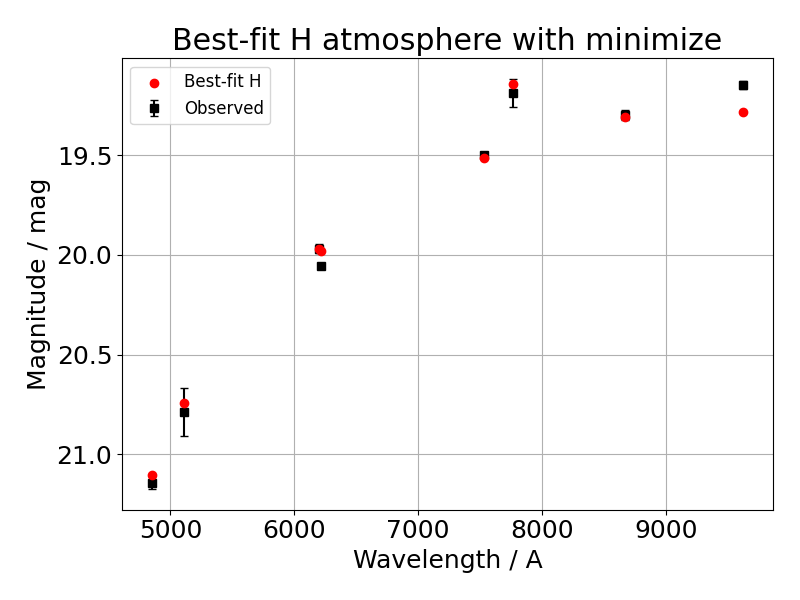
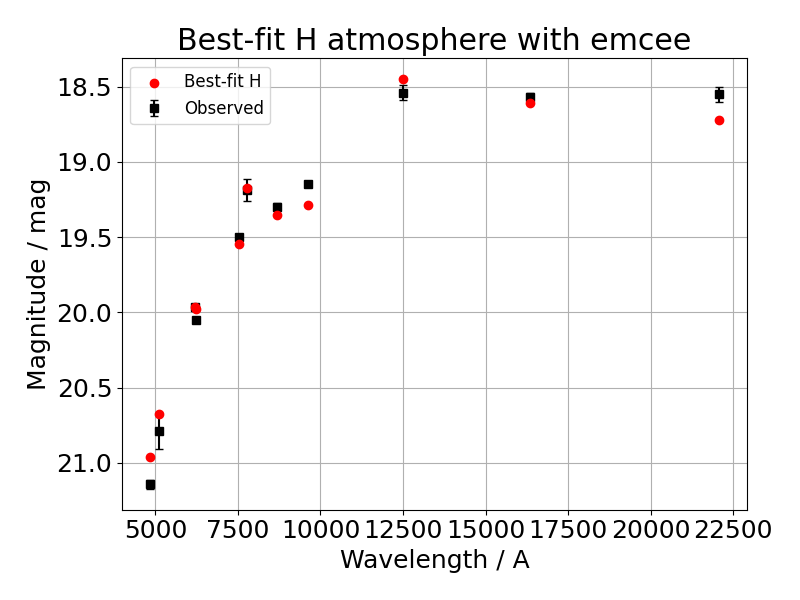
Fixed NAN extinction values when no reddening is fitted. Fixed some docstrings in fitting.py. Fixed a few typos in README.md and docs/source/fitting.rst

diff --git a/example/fitting_atmospheric_properties.py b/example/fitting_atmospheric_properties.py
@@ -5,54 +5,14 @@ from WDPhotTools.fitter import WDfitter
 
 try:
     HERE = os.path.dirname(os.path.realpath(__file__))
-except:
+except Exception as e:
+    print(e)
     HERE = os.path.dirname(os.path.realpath(__name__))
 
 
 ftr = WDfitter()
 
-# Fitting for logg and Mbol with 5 filters for both DA and DB
-ftr.fit(
-    filters=["G3", "G3_BP", "G3_RP", "FUV", "NUV"],
-    mags=[10.744, 10.775, 10.681, 13.940, 11.738],
-    mag_errors=[0.1, 0.1, 0.1, 0.1, 0.1],
-    independent=["Mbol", "logg"],
-    distance=10.0,
-    distance_err=0.1,
-    initial_guess=[10.0, 7.0],
-)
-ftr.results["H"]
-ftr.results["He"]
-ftr.show_best_fit(display=False)
-
-# Fitting for Mbol with 5 filters for both DA and DB
-ftr.fit(
-    filters=["G3", "G3_BP", "G3_RP", "FUV", "NUV"],
-    mags=[10.744, 10.775, 10.681, 13.940, 11.738],
-    mag_errors=[0.1, 0.1, 0.1, 0.1, 0.1],
-    logg=7.05,
-    independent=["Mbol"],
-    distance=10.0,
-    distance_err=0.1,
-    initial_guess=[10.0],
-)
-ftr.results["H"]
-ftr.results["He"]
-ftr.show_best_fit(display=False)
-
-# Fitting for logg, Mbol and distance with 5 filters for both DA and DB
-ftr.fit(
-    filters=["G3", "G3_BP", "G3_RP", "FUV", "NUV"],
-    mags=[10.744, 10.775, 10.681, 13.940, 11.738],
-    mag_errors=[0.1, 0.1, 0.1, 0.1, 0.1],
-    independent=["Mbol", "logg"],
-    initial_guess=[10.0, 7.0],
-)
-ftr.results["H"]
-ftr.results["He"]
-ftr.show_best_fit(display=False)
-
-# Fitting for logg and Mbol with 8 filters for both DA and DB
+# Fitting for logg and Mbol with 11 filters for both DA and DB
 ftr.fit(
     filters=[
         "g_ps1",
@@ -63,6 +23,9 @@ ftr.fit(
         "G3",
         "G3_BP",
         "G3_RP",
+        "J_mko",
+        "H_mko",
+        "K_mko",
     ],
     mags=[
         21.1437,
@@ -73,6 +36,9 @@ ftr.fit(
         20.0533,
         20.7883,
         19.1868,
+        19.45 - 0.91,
+        19.96 - 1.39,
+        20.40 - 1.85,
     ],
     mag_errors=[
         0.0321,
@@ -83,6 +49,9 @@ ftr.fit(
         0.006322,
         0.118615,
         0.070880,
+        0.05,
+        0.03,
+        0.05,
     ],
     independent=["Mbol", "logg"],
     distance=71.231,
@@ -99,8 +68,7 @@ ftr.show_best_fit(
     filename="PSOJ1801p6254",
 )
 
-
-# Fitting for logg and Mbol with 8 filters for both DA and DB
+# Fitting for logg and Mbol with 11 filters for both DA and DB
 ftr = WDfitter()
 ftr.fit(
     atmosphere="H",
@@ -113,6 +81,9 @@ ftr.fit(
         "G3",
         "G3_BP",
         "G3_RP",
+        "J_mko",
+        "H_mko",
+        "K_mko",
     ],
     mags=[
         21.1437,
@@ -123,6 +94,9 @@ ftr.fit(
         20.0533,
         20.7883,
         19.1868,
+        19.45 - 0.91,
+        19.96 - 1.39,
+        20.40 - 1.85,
     ],
     mag_errors=[
         0.0321,
@@ -133,6 +107,9 @@ ftr.fit(
         0.006322,
         0.118615,
         0.070880,
+        0.05,
+        0.03,
+        0.05,
     ],
     independent=["Mbol", "logg"],
     initial_guess=[14.0, 7.5],

diff --git a/WDPhotTools/fitter.py b/WDPhotTools/fitter.py
@@ -2016,35 +2016,41 @@ class WDfitter(AtmosphereModelReader):
                         )
                     )
 
-                if self.extinction_convolved:
+                if Rv > 0.0:
 
-                    Av = (
-                        np.array(
-                            [
-                                i(
-                                    [
-                                        self.best_fit_params[j]["logg"],
-                                        self.best_fit_params[j]["Teff"],
-                                        Rv,
-                                    ]
-                                )
-                                for i in self.rv
-                            ],
-                            dtype=np.float64,
-                        ).reshape(-1)
-                        * ebv
-                    )
+                    if self.extinction_convolved:
+
+                        Av = (
+                            np.array(
+                                [
+                                    i(
+                                        [
+                                            self.best_fit_params[j]["logg"],
+                                            self.best_fit_params[j]["Teff"],
+                                            Rv,
+                                        ]
+                                    )
+                                    for i in self.rv
+                                ],
+                                dtype=np.float64,
+                            ).reshape(-1)
+                            * ebv
+                        )
+
+                    else:
+
+                        Av = (
+                            np.array(
+                                [i(Rv) for i in self.rv], dtype=np.float64
+                            ).reshape(-1)
+                            * ebv
+                        )
+
+                    Av[np.isnan(Av)] = 0.0
 
                 else:
 
-                    Av = (
-                        np.array(
-                            [i(Rv) for i in self.rv], dtype=np.float64
-                        ).reshape(-1)
-                        * ebv
-                    )
-
-                Av[np.isnan(Av)] = 0.0
+                    Av = np.zeros(len(self.rv)).reshape(-1)
 
                 for i, f in enumerate(self.fitting_params["filters"]):
 

diff --git a/WDPhotTools/cooling_model_reader.py b/WDPhotTools/cooling_model_reader.py
@@ -18,8 +18,8 @@ class CoolingModelReader(object):
             "montreal_co_da_20": "Bedard et al. 2020 CO DA",
             "montreal_co_db_20": "Bedard et al. 2020 CO DB",
             "lpcode_he_da_07": "Panei et al. 2007 He DA",
-            "lpcode_co_da_07": "Panei et al. 2007 CO DA",
             "lpcode_he_da_09": "Althaus et al. 2009 He DA",
+            "lpcode_co_da_07": "Panei et al. 2007 CO DA",
             "lpcode_co_da_10_z001": "Renedo et al. 2010 CO DA Z=0.01",
             "lpcode_co_da_10_z0001": "Renedo et al. 2010 CO DA Z=0.001",
             "lpcode_co_da_15_z00003": "Althaus et al. 2015 DA Z=0.00003",
@@ -28,13 +28,19 @@ class CoolingModelReader(object):
             "lpcode_co_db_17_z00005": "Althaus et al. 2017 DB Y=0.4",
             "lpcode_co_db_17_z0001": "Althaus et al. 2017 DB Y=0.4",
             "lpcode_co_db_17": "Camisassa et al. 2017 DB",
-            "basti_co_da_10": "Salaris et al. 2010 CO DA",
-            "basti_co_db_10": "Salaris et al. 2010 CO DB",
-            "basti_co_da_10_nps": "Salaris et al. 2010 CO DA, no phase separation",
-            "basti_co_db_10_nps": "Salaris et al. 2010 CO DB, no phase separation",
             "lpcode_one_da_07": "Althaus et al. 2007 ONe DA",
             "lpcode_one_da_19": "Camisassa et al. 2019 ONe DA",
             "lpcode_one_db_19": "Camisassa et al. 2019 ONe DB",
+            "lpcode_da_22": "Althaus et al. 2013 He DA, "
+            + "Camisassa et al. 2016 CO DA,  Camisassa et al. 2019 ONe DA",
+            "lpcode_db_22": "Camisassa et al. 2017 CO DB, "
+            + "Camisassa et al. 2019 ONe DB",
+            "basti_co_da_10": "Salaris et al. 2010 CO DA",
+            "basti_co_db_10": "Salaris et al. 2010 CO DB",
+            "basti_co_da_10_nps": "Salaris et al. 2010 CO DA, "
+            + "no phase separation",
+            "basti_co_db_10_nps": "Salaris et al. 2010 CO DB, "
+            + "no phase separation",
             "mesa_one_da_18": "Lauffer et al. 2018 ONe DA",
             "mesa_one_db_18": "Lauffer et al. 2018 ONe DB",
         }

diff --git a/WDPhotTools/atmosphere_model_reader.py b/WDPhotTools/atmosphere_model_reader.py
@@ -9,6 +9,31 @@ class AtmosphereModelReader(object):
 
         super(AtmosphereModelReader, self).__init__()
 
+        self.THIS_FILE = os.path.dirname(os.path.abspath(__file__))
+
+        self.model_list = {
+            "montreal_co_da_20": "Bedard et al. 2020 CO DA",
+            "montreal_co_db_20": "Bedard et al. 2020 CO DB",
+            "lpcode_he_da_07": "Panei et al. 2007 He DA",
+            "lpcode_co_da_07": "Panei et al. 2007 CO DA",
+            "lpcode_he_da_09": "Althaus et al. 2009 He DA",
+            "lpcode_co_da_10_z001": "Renedo et al. 2010 CO DA Z=0.01",
+            "lpcode_co_da_10_z0001": "Renedo et al. 2010 CO DA Z=0.001",
+            "lpcode_co_da_15_z00003": "Althaus et al. 2015 DA Z=0.00003",
+            "lpcode_co_da_15_z0001": "Althaus et al. 2015 DA Z=0.0001",
+            "lpcode_co_da_15_z0005": "Althaus et al. 2015 DA Z=0.0005",
+            "lpcode_co_db_17_z00005": "Althaus et al. 2017 DB Y=0.4",
+            "lpcode_co_db_17_z0001": "Althaus et al. 2017 DB Y=0.4",
+            "lpcode_co_db_17": "Camisassa et al. 2017 DB",
+            "lpcode_one_da_07": "Althaus et al. 2007 ONe DA",
+            "lpcode_one_da_19": "Camisassa et al. 2019 ONe DA",
+            "lpcode_one_db_19": "Camisassa et al. 2019 ONe DB",
+            "lpcode_da_22": "Althaus et al. 2013 He DA, "
+            + "Camisassa et al. 2016 CO DA,  Camisassa et al. 2019 ONe DA",
+            "lpcode_db_22": "Camisassa et al. 2017 CO DB, "
+            + "Camisassa et al. 2019 ONe DB",
+        }
+
         # DA atmosphere
         filepath_da = os.path.join(
             os.path.dirname(os.path.abspath(__file__)),

diff --git a/WDPhotTools/reddening.py b/WDPhotTools/reddening.py
@@ -147,11 +147,12 @@ def reddening_vector_filter(filter):
 
     data = data.reshape(len(logg), len(Teff), len(Rv))
 
-    # fill_value is set to None to allow extrapolation. The scipy default is Nan.
+    # fill_value is set to None to allow extrapolation.
+    # The scipy default is Nan the otherwise.
     return RegularGridInterpolator(
         (logg, Teff, Rv),
         data,
-        method="linear",
+        method="cubic",
         bounds_error=False,
         fill_value=None,
     )

diff --git a/docs/source/tutorials/fitting.rst b/docs/source/tutorials/fitting.rst
@@ -105,7 +105,7 @@ Compared to case 1, this fits for the logg, so we needs to add `"logg"` to the `
             Rv=3.1,
             ebv=0.1,
             independent=["Mbol", "logg"],
-            initial_guess=[10.0],
+            initial_guess=[10.0, 8.0],
             logg=7.81)
 
 **Case 3**
@@ -185,7 +185,7 @@ This is a combination of case 2 and 4. We are also demonstrating how to modify t
             nburns=200,
             refine=True,
             refine_bounds=[2.5, 97.5],
-            kwargs_for_RBF={"kernel": quintic}
+            kwargs_for_RBF={"kernel": 'quintic'}
             )
 
 

diff --git a/README.md b/README.md
@@ -51,7 +51,6 @@ and
       url          = {https://doi.org/10.5281/zenodo.6595029}
     }
 
-
 ## Model Inspection
 
 1. Plotting the WD cooling sequence in Gaia filters
